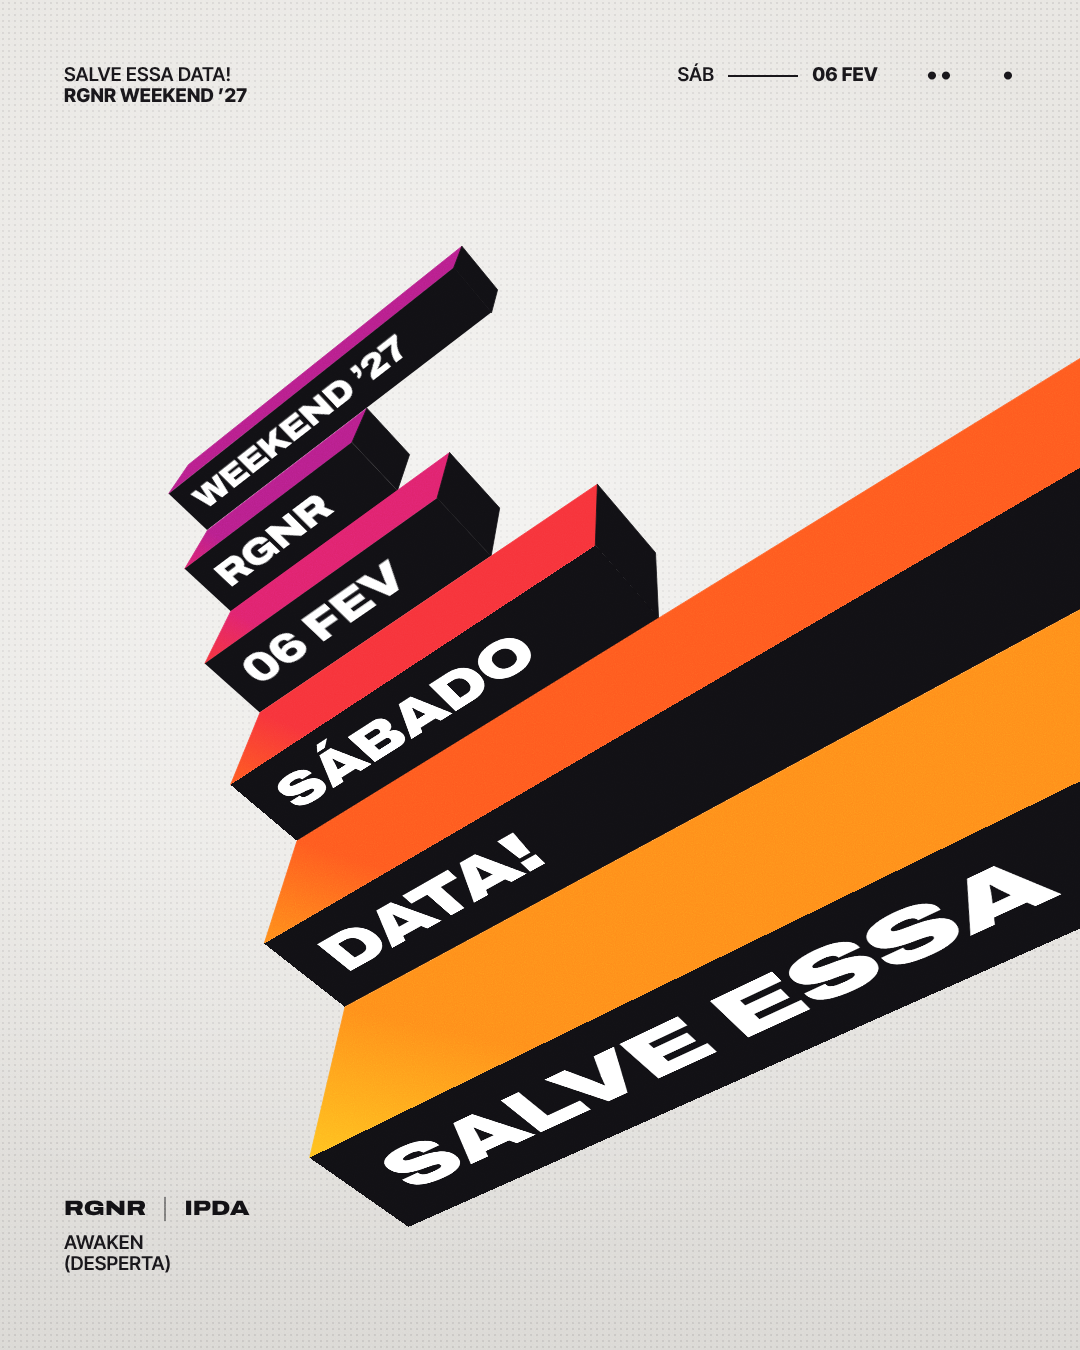
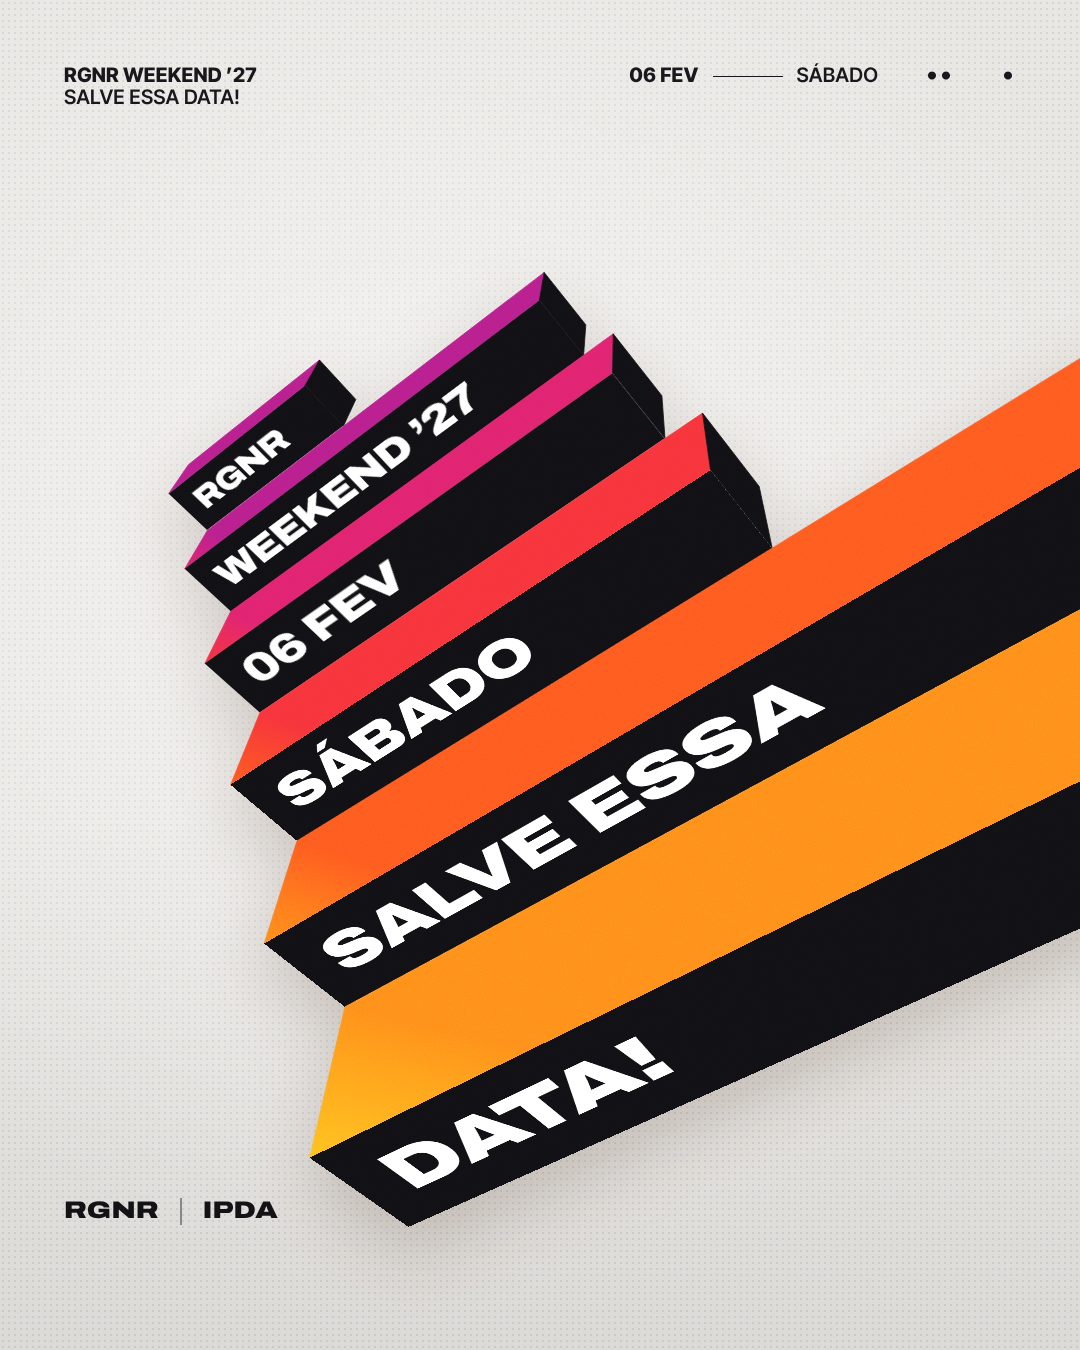
06 Escada: nova ordem dos textos e sem o tema Awaken
Ajuste pedido pelo cliente na opção escolhida (06 Escada):
- de cima para baixo: RGNR / WEEKEND '27 / 06 FEV / SÁBADO /
  SALVE ESSA / DATA!, e a microtipografia na mesma ordem;
- sai o rodapé "Awaken (desperta)", porque o tema ainda não foi
  confirmado.

Refino: blocos de cima nunca mais compridos que os de baixo
(silhueta em degraus), sombra suave sob a escada, lateral dos
blocos levemente mais clara, logos um pouco maiores e Story com a
escada maior.

Claude-Session: https://claude.ai/code/session_01LXv74A6tT5C47xYrirHrB5

diff --git a/artes/wknd27/src/06-escada.html b/artes/wknd27/src/06-escada.html
@@ -7,7 +7,7 @@
 <link rel="stylesheet" href="shared.css">
 <script src="shared.js"></script>
 <style>
-  :root { --ink: #121114; --logo-h: 26px; --grain: .22; }
+  :root { --ink: #121114; --logo-h: 30px; --grain: .22; }
   .canvas { background: #E8E6E2; }
   .dots { position: absolute; inset: 0; background-image: radial-gradient(circle, rgba(20,18,22,.16) 1.1px, transparent 1.4px); background-size: 6px 6px; opacity: .55; }
   .shade { position: absolute; inset: 0; background: radial-gradient(120% 90% at 40% 40%, rgba(255,255,255,.55), rgba(255,255,255,0) 60%), linear-gradient(180deg, rgba(0,0,0,0) 60%, rgba(0,0,0,.06)); }
@@ -16,22 +16,24 @@
     backface-visibility: hidden; }
   .face span { display: block; letter-spacing: -.01em; }
   svg.poly { position: absolute; left: 0; top: 0; width: var(--W); height: var(--H); overflow: visible; }
-  .micro { position: absolute; font-family: 'Inter Tight'; font-weight: 600; font-size: 19px; line-height: 1.12; color: #18161A; letter-spacing: .01em; text-transform: uppercase; }
+  .micro { position: absolute; font-family: 'Inter Tight'; font-weight: 600; font-size: 20px; line-height: 1.12; color: #18161A; letter-spacing: .01em; text-transform: uppercase; }
   .micro b { font-weight: 800; }
   .tl { left: 64px; } .tr { right: 64px; display: flex; gap: 48px; align-items: center; } .bl { left: 64px; }
   .tr .line { display: inline-block; width: 70px; height: 1.5px; background: #18161A; vertical-align: middle; margin: 0 14px; }
   .dot2 { letter-spacing: 3px; font-size: 26px; line-height: 0; }
-  #logos { justify-content: flex-start; margin-bottom: 10px; }
-  html[data-format=story] .micro { font-size: 21px; }
+  #logos { justify-content: flex-start; }
+  #stage { position: absolute; inset: 0; filter: drop-shadow(0 28px 34px rgba(60,25,10,.20)); }
+  html[data-format=story] .micro { font-size: 23px; }
+  html[data-format=story] { --logo-h: 34px; }
 </style>
 </head>
 <body>
 <div class="canvas" id="c">
   <div class="dots"></div><div class="shade"></div>
   <div id="stage"></div>
-  <div class="micro tl" id="tl">Salve essa data!<br><b>RGNR Weekend ’27</b></div>
-  <div class="micro tr" id="tr"><span>Sáb<span class="line"></span><b>06 Fev</b></span><span class="dot2">••</span><span class="dot2">•</span></div>
-  <div class="micro bl" id="bl"><div class="logos" id="logos"><div class="logo" data-logo="rgnr">RGNR</div><span class="sep"></span><div class="logo" data-logo="ipda">IPDA</div></div>Awaken<br>(Desperta)</div>
+  <div class="micro tl" id="tl"><b>RGNR Weekend ’27</b><br>Salve essa data!</div>
+  <div class="micro tr" id="tr"><span><b>06 Fev</b><span class="line"></span>Sábado</span><span class="dot2">••</span><span class="dot2">•</span></div>
+  <div class="micro bl" id="bl"><div class="logos" id="logos"><div class="logo" data-logo="rgnr">RGNR</div><span class="sep"></span><div class="logo" data-logo="ipda">IPDA</div></div></div>
 </div>
 <script>
 ART.ready(async () => {
@@ -40,14 +42,15 @@ ART.ready(async () => {
   const num = (k, d) => (q.has(k) ? parseFloat(q.get(k)) : d);
   const P = ART.pick(
     { yaw: -22, pitch: 24, roll: -42, dist: 9, F: 1220, ox: 0.54, oy: 0.44, lw: 7, micro: 64, bl: 1196 },
-    { yaw: -20, pitch: 26, roll: -56, dist: 9, F: 1250, ox: 0.5, oy: 0.47, lw: 7, micro: 276, bl: 1572 }
+    { yaw: -20, pitch: 26, roll: -56, dist: 9, F: 1400, ox: 0.5, oy: 0.47, lw: 7, micro: 276, bl: 1572 }
   );
   const yaw = num('yaw', P.yaw) * Math.PI / 180, pitch = num('pitch', P.pitch) * Math.PI / 180, roll = num('roll', P.roll) * Math.PI / 180;
   const dist = num('dist', P.dist), F = num('F', P.F);
   const ox = num('ox', P.ox) * W, oy = num('oy', P.oy) * H;
 
-  // degraus (de baixo para cima) — texto lido subindo, como na referência
-  const STEPS = ['Salve essa', 'Data!', 'Sábado', '06 Fev', 'RGNR', 'Weekend ’27'];
+  // degraus, de baixo (maior, mais perto) para cima — de cima para baixo lê-se:
+  // RGNR / WEEKEND ’27 / 06 FEV / SÁBADO / SALVE ESSA / DATA!
+  const STEPS = ['Data!', 'Salve essa', 'Sábado', '06 Fev', 'Weekend ’27', 'RGNR'];
   const N = STEPS.length, r = 1, d = num('d', 1.25), Lw = num('lw', P.lw);
   const COLORS = ['#FFC21F', '#FF8E1A', '#FF5A1F', '#F7333A', '#E0236E', '#B81F8C'];
 
@@ -74,13 +77,18 @@ ART.ready(async () => {
   const sizes = STEPS.map((_, i) => Math.pow(k, i));
   const faces = [], lens = [];
   const U = 120; // px por unidade na textura do texto
+  // comprimento de cada bloco: cabe o texto + respiro, e nunca é menor que o bloco de cima
+  // (assim a silhueta desce em degraus); os dois de baixo sangram para fora da arte
+  for (let i = N - 1; i >= 0; i--) {
+    const s = sizes[i];
+    const tw = ART.measure(STEPS[i].toUpperCase(), `900 ${0.6 * U * s}px Archivo`).width / U * 1.42;
+    const need = Math.max(tw + 0.9 * s, 2.2 * s);
+    lens[i] = i < 2 ? Lw : Math.max(need, i < N - 1 ? lens[i + 1] + 0.45 * s : 0);
+  }
   let yAcc = 0, zAcc = 0;
   for (let i = 0; i < N; i++) {
     const s = sizes[i];
-    // comprimento do bloco: o texto + respiro; os dois primeiros sangram para fora da arte
-    const tw = ART.measure(STEPS[i].toUpperCase(), `900 ${0.6 * U * s}px Archivo`).width / U * 1.42;
-    const len = i < 2 ? Lw : Math.max(tw + 0.9 * s, 2.2 * s);
-    lens[i] = len;
+    const len = lens[i];
     const y0 = yAcc, y1 = y0 + r * s, z1 = zAcc, z0 = z1 - d * s, x0 = 0, x1 = len;
     yAcc = y1; zAcc -= d * s;
     const A = [x0, y0, z1], B = [x1, y0, z1], C = [x1, y1, z1], D = [x0, y1, z1];
@@ -121,7 +129,7 @@ ART.ready(async () => {
     } else {
       const s = svg('svg', { class: 'poly', viewBox: `0 0 ${W} ${H}` });
       stage.appendChild(s);
-      let fill = '#111014';
+      let fill = f.kind === 'left' ? '#1C1A20' : '#111014';
       if (f.kind === 'bottom' || f.kind === 'top') {
         const c1 = COLORS[f.i], c2 = COLORS[Math.min(f.i + 1, N - 1)];
         gradFor(s, 'g' + k, c1, c2, P2[0], P2[3]);

diff --git a/artes/wknd27/README.md b/artes/wknd27/README.md
@@ -17,7 +17,7 @@ Cada uma segue uma das referências que foram enviadas, adaptada ao tema e às c
 | # | Opção | Referência | Linguagem |
 |---|-------|------------|-----------|
 | 05 | **Granulado** | “Love your enemies” | Degradê granulado, SALVE / DATA! gigante com letras encostadas e “Essa” em script por cima. |
-| 06 | **Escada** | “We only fall to rise again” | Blocos em escada 3D subindo: SALVE ESSA → DATA! → SÁBADO → 06 FEV → RGNR → WEEKEND ’27. |
+| 06 | **Escada** | “We only fall to rise again” | Blocos em escada 3D. De cima para baixo: RGNR → WEEKEND ’27 → 06 FEV → SÁBADO → SALVE ESSA → DATA! Sem o tema Awaken, que ainda não foi confirmado. |
 | 07 | **Desfoque** | “Inter Session” | Fundo cinza claro, RGNR ’27 / WEEKEND em degradê com letras misturadas e desfoque nas pontas. |
 | 08 | **Jornal** | Estilo periódico | Página de jornal rasgada sobre laranja, xilogravura de nascer do sol, fita com a data e carimbo. |
 | 09 | **Gigante** | “Overthink” | 06 / FEV gigante ocupando a arte toda, com o texto pequeno dentro do vão do E. |
